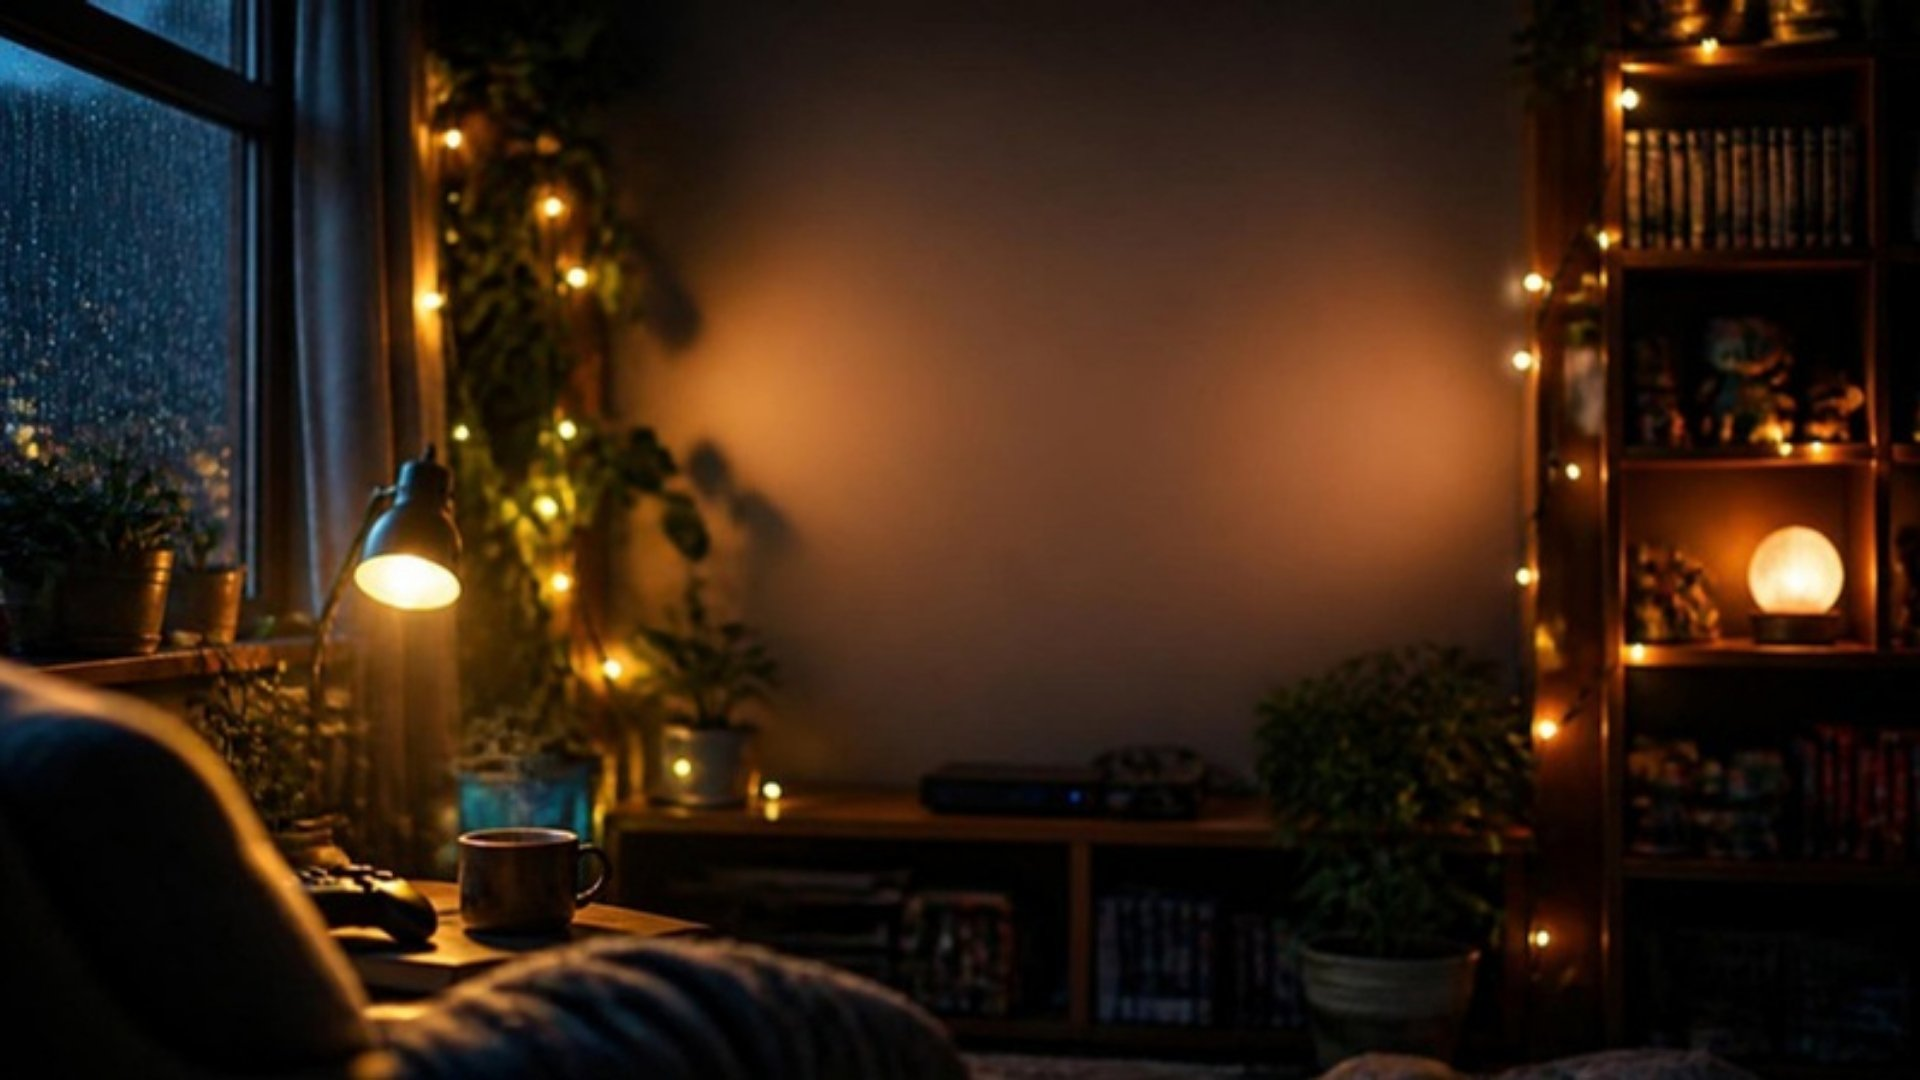
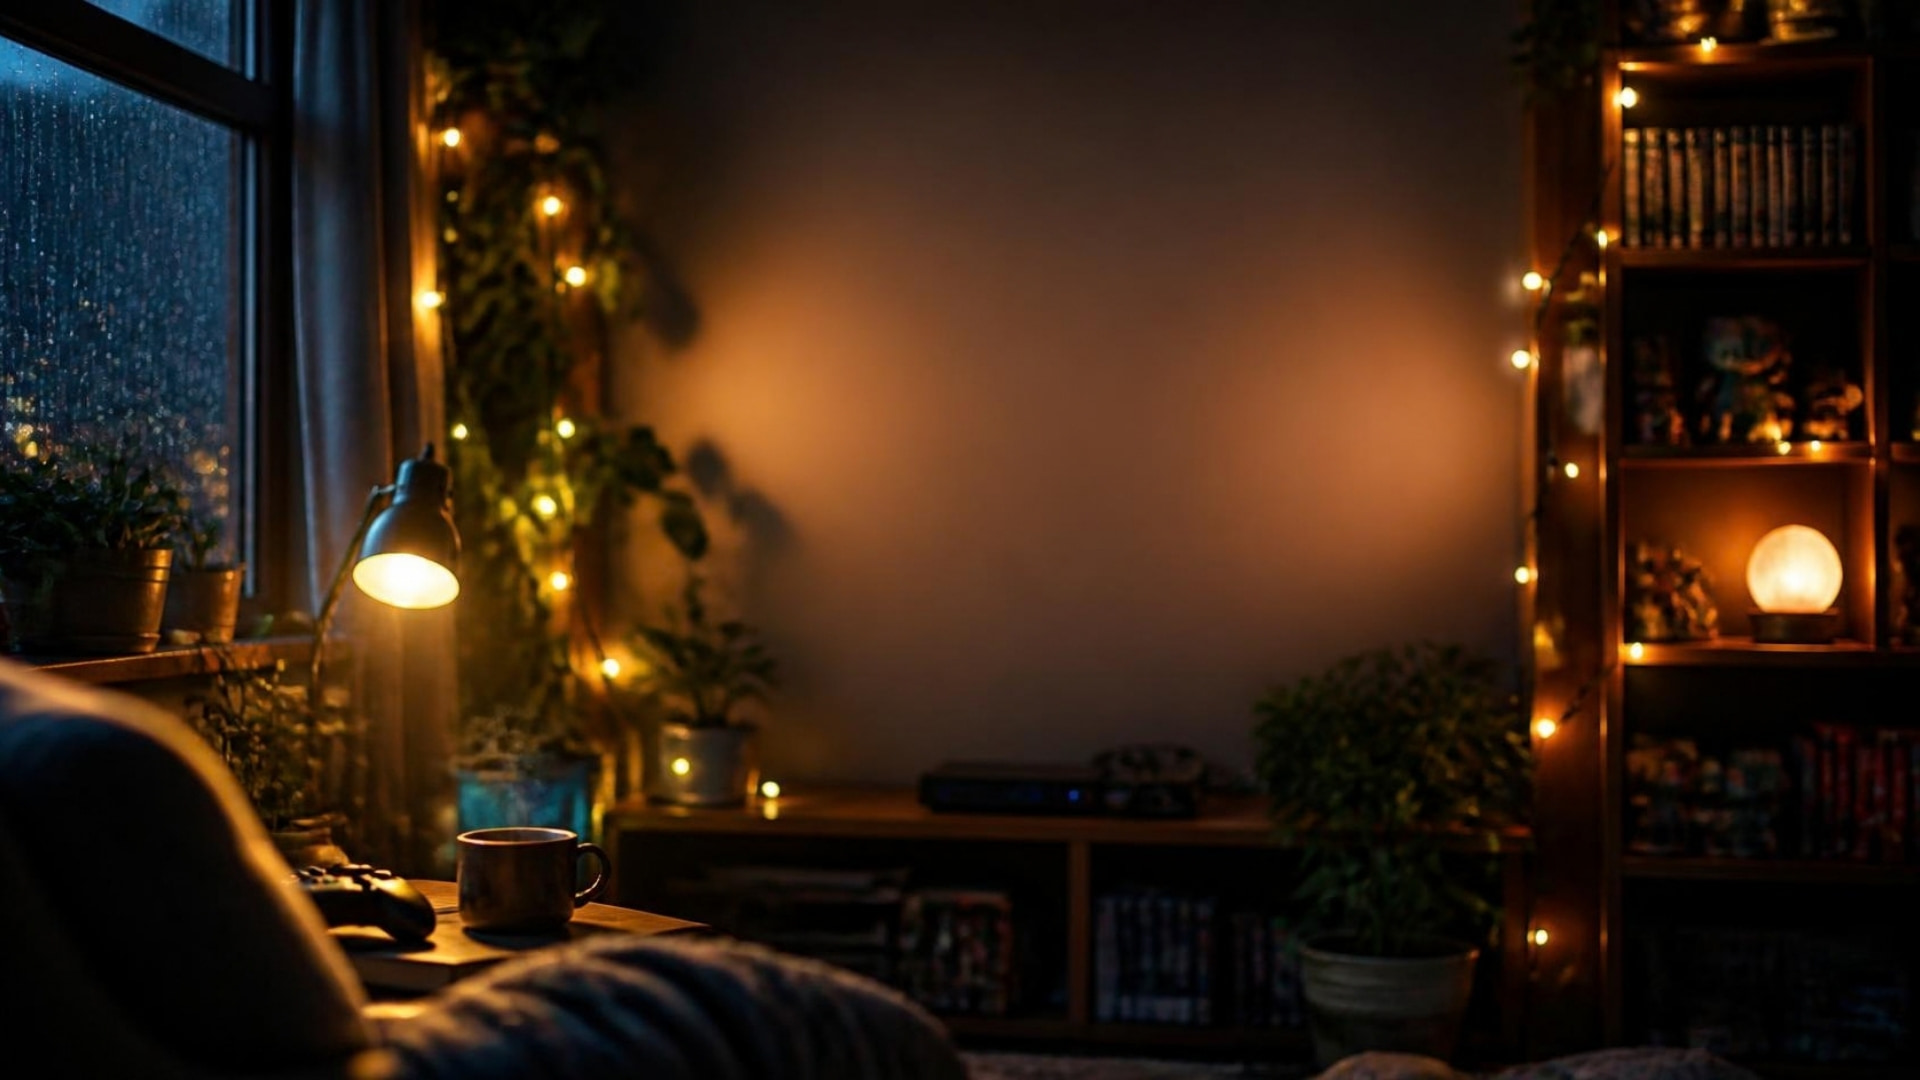
upgrade

diff --git a/src/components/overlay/pauseBackgrounds.ts b/src/components/overlay/pauseBackgrounds.ts
@@ -2,8 +2,9 @@
  * Hintergründe der Pausen-Szene — vom Streamer in den Overlay-Einstellungen wählbar. Bewusst ohne
  * React, damit Server (Prüfen der Auswahl), Overlay und Einstellungs-Vorschau dieselbe Liste nutzen.
  *
- * Die Bilder (public/overlay/pause/*.jpg, 1920×1080) wurden mit Canva generiert (Design
- * "OMA Overlay – Pausen-Hintergründe"). Jedes bekommt im normalen Modus eine eigene, leichte
+ * Die Bilder (public/overlay/pause/*.jpg, 1920×1080, aus dem Canva-Export in voller Qualität mit
+ * JPG-Qualität 92 und ohne Farb-Unterabtastung neu kodiert) wurden mit Canva generiert (Design
+ * "OMA Overlay – Pausen-Hintergründe"). Kleine Vorschauen (480×270) liegen unter pause/thumbs/. Jedes bekommt im normalen Modus eine eigene, leichte
  * Effekt-Ebene (siehe PauseBackground.tsx, Schlüssel = key); im Leicht-Modus bleiben sie statisch.
  */
 
@@ -52,6 +53,11 @@ export const DEFAULT_PAUSE_BACKGROUND: PauseBackgroundKey = "dark";
 
 export function isPauseBackground(v: unknown): v is PauseBackgroundKey {
   return typeof v === "string" && PAUSE_BACKGROUNDS.some(b => b.key === v);
+}
+
+/** Kleines Vorschaubild für die Auswahl in den Einstellungen — lädt nicht alle Bilder in voller Größe. */
+export function pauseThumbnail(bg: PauseBackground): string | null {
+  return bg.image ? bg.image.replace("/overlay/pause/", "/overlay/pause/thumbs/") : null;
 }
 
 export function getPauseBackground(key: string | null | undefined): PauseBackground {

diff --git a/src/app/(app)/(dashboard)/profile/overlay/StreamerOverlaySettings.tsx b/src/app/(app)/(dashboard)/profile/overlay/StreamerOverlaySettings.tsx
@@ -17,7 +17,7 @@ import {
   type ElementKey, type ProfileElementKey, type OverlayLayout,
 } from "@/components/overlay/types";
 import { formatBerlinDate } from "@/lib/time";
-import { PAUSE_BACKGROUNDS } from "@/components/overlay/pauseBackgrounds";
+import { PAUSE_BACKGROUNDS, pauseThumbnail } from "@/components/overlay/pauseBackgrounds";
 
 type Mode = "event" | "profile";
 
@@ -233,7 +233,7 @@ export default function StreamerOverlaySettings({
                       active ? "ring-2 ring-teal-400 ring-offset-2 ring-offset-black/60" : "ring-1 ring-white/10 hover:ring-white/30"
                     }`}
                     style={{
-                      backgroundImage: bg.image ? `${bg.overlay}, url(${bg.image})` : `${bg.overlay}, repeating-conic-gradient(#2a2a32 0% 25%, #1c1c22 0% 50%) 50% / 16px 16px`,
+                      backgroundImage: bg.image ? `${bg.overlay}, url(${pauseThumbnail(bg)})` : `${bg.overlay}, repeating-conic-gradient(#2a2a32 0% 25%, #1c1c22 0% 50%) 50% / 16px 16px`,
                       backgroundSize: "cover",
                       backgroundPosition: "center",
                     }}

diff --git a/src/components/overlay/PauseBackground.tsx b/src/components/overlay/PauseBackground.tsx
@@ -434,7 +434,7 @@ function Trails() {
 function EffectStyles() {
   return (
     <style>{`
-      @keyframes oma-pb-kenburns { 0% { transform: scale(1.02) translate(0, 0); } 100% { transform: scale(1.1) translate(-1.5%, -1%); } }
+      @keyframes oma-pb-kenburns { 0% { transform: scale(1.015) translate(0, 0); } 100% { transform: scale(1.04) translate(-0.8%, -0.5%); } }
       @keyframes oma-pb-twinkle  { 0%, 100% { opacity: 0.15; transform: scale(0.7); } 50% { opacity: 1; transform: scale(1); } }
       @keyframes oma-pb-pulse    { 0%, 100% { opacity: 0.55; transform: scale(0.95); } 50% { opacity: 1; transform: scale(1.05); } }
       @keyframes oma-pb-breathe  { 0%, 100% { opacity: 0.25; transform: scale(0.9); } 50% { opacity: 0.7; transform: scale(1.1); } }
